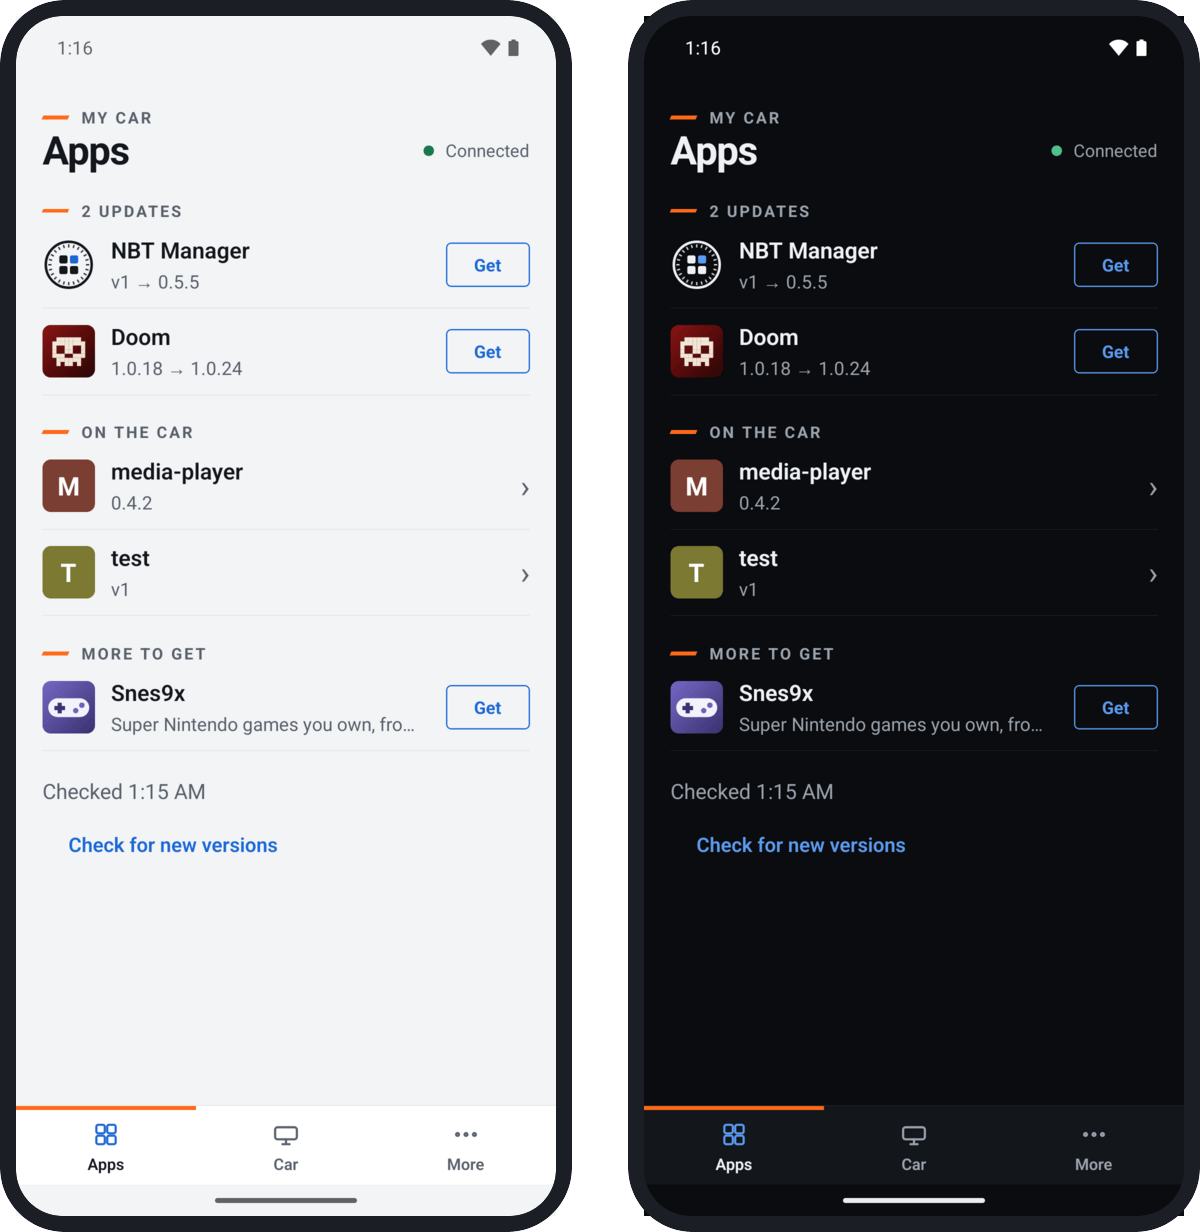
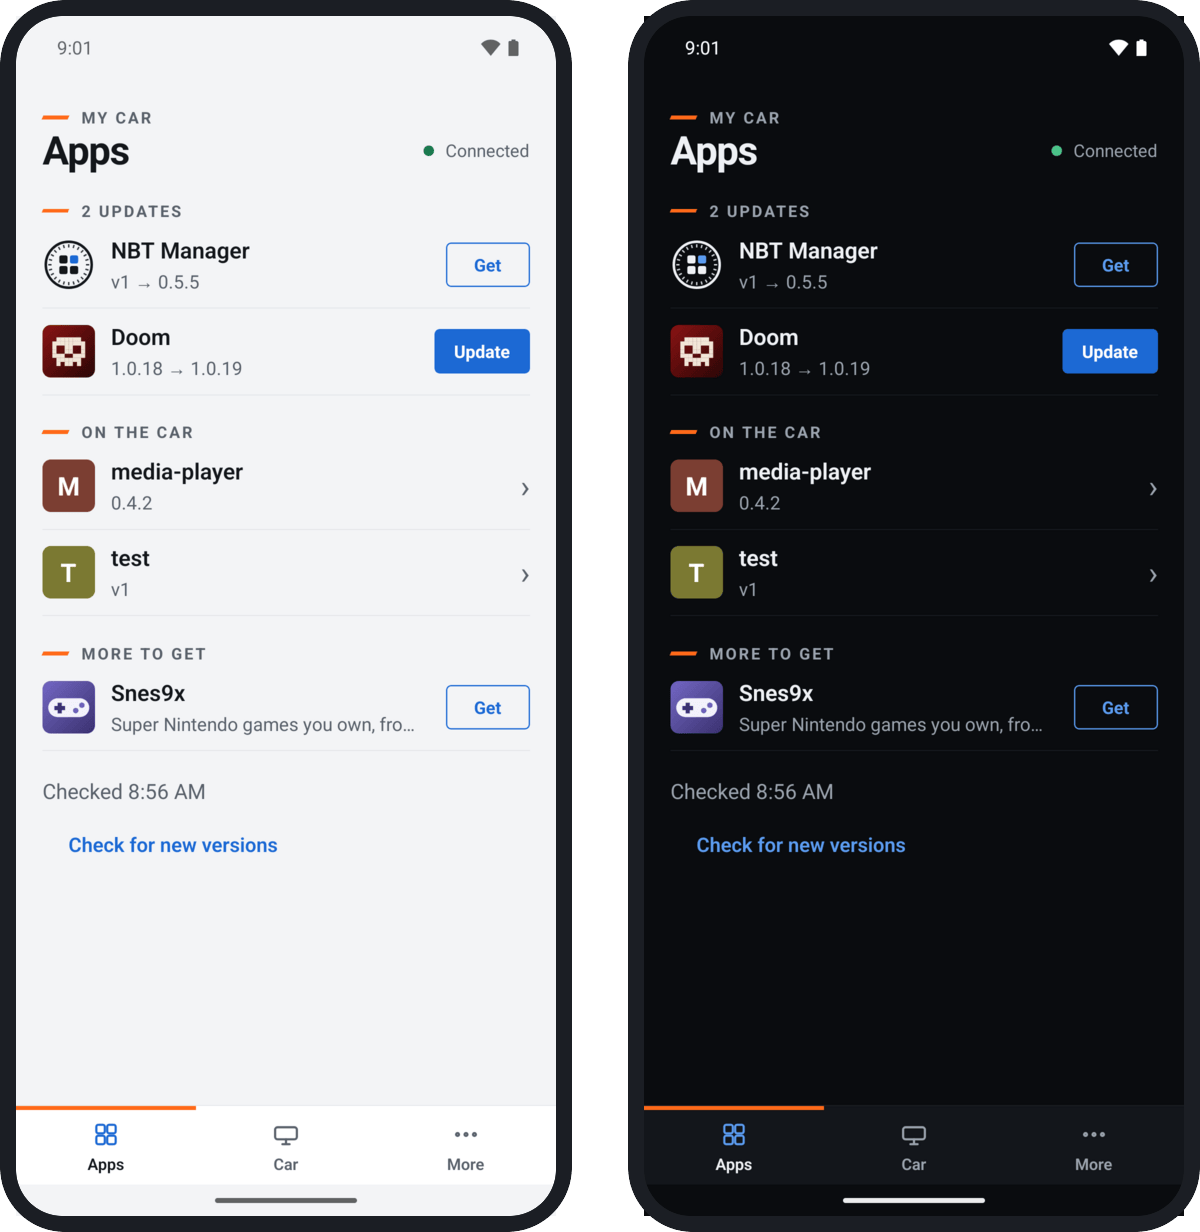
Docs: the README's captures at 0.2.1; the capture script follows the catalog read at start
The app reads the online catalog when it opens, so Doom's page offered the
catalog's release instead of the test package: the test packages' sequences
are now above the catalog's. --themes <folder> also captures the Apps tab in
the BMW, MINI and Supra themes, for the website's slides.

diff --git a/scripts/capture_screens.py b/scripts/capture_screens.py
@@ -14,6 +14,8 @@ Writes, framed as a phone on a transparent background:
   mobile-more.png     More: settings, this phone, About (light)
   mobile-pairing.png  pairing: the code to compare with the car (light)
   mobile-install.webp an install, from the request to the car's approval
+With --themes <folder>, also theme-bmw.png, theme-mini.png and theme-supra.png there: the
+Apps tab (dark) in each make's theme, for the website's slides.
 
 Starts Metro (`yarn start`'s port) when nothing listens on it. Clears the app's
 data on the emulator first. Needs adb, ffmpeg (with libwebp), ImageMagick
@@ -39,15 +41,17 @@ from host_car import MANAGER, HostCar, elf  # noqa: E402
 APP_ROOT = Path(__file__).resolve().parents[1]
 PACKAGE = 'org.nbtfoundry.manager'
 CAR_PORT, DOOR_PORT = 18080, 18081
+THEMES = ('BMW', 'MINI', 'Supra')                  # as More > Theme names them
 ADDRESS_HINT = '10.0.2.2:18080'                    # the desk pairing field's placeholder
 SCREEN_W, SCREEN_H = 540, 1200                     # half of the Pixel 6's 1080x2400
 BEZEL, BODY_RADIUS, SCREEN_RADIUS = 16, 64, 46
 BODY = '#1b1e24'
-# (file, app, version, sequence, size in bytes, settings)
+# (file, app, version, sequence, size in bytes, settings). Doom's sequences are above the online
+# catalog's, which the app reads when it opens: the page then offers these packages, not a download.
 PACKAGES = [
-    ('doom-1.0.18.nbt', 'doom', '1.0.18', 18, 6_100_000,
+    ('doom-1.0.18.nbt', 'doom', '1.0.18', 9_000_018, 6_100_000,
      ['sound|Sound|on|on,off', 'turn|Sensitivity|normal|low,normal,high', 'run|Run|always|always,hold']),
-    ('doom-1.0.19.nbt', 'doom', '1.0.19', 19, 6_120_000,
+    ('doom-1.0.19.nbt', 'doom', '1.0.19', 9_000_019, 6_120_000,
      ['sound|Sound|on|on,off', 'turn|Sensitivity|normal|low,normal,high', 'run|Run|always|always,hold']),
     ('media-player-0.4.2.nbt', 'media-player', '0.4.2', 7, 1_400_000, ['source|Source|usb|usb,bluetooth']),
     ('test-v1.nbt', 'test', 'v1', 1, 52_000, ['background|Background|blue|blue,red,green,black']),
@@ -309,6 +313,19 @@ def install(dev, car, app, version):
     dev.tap('‹ Back')
 
 
+def theme_shots(dev, shots):
+    """The Apps tab (dark) in each make's theme; leaves More open, in the light."""
+    dev.night(True)
+    for theme in (*THEMES, 'Like the car'):
+        dev.tab('More')
+        dev.tap('Theme')
+        dev.tap(theme)
+        if theme in THEMES:
+            dev.tab('Apps')
+            dev.screenshot(shots / f'theme-{theme.lower()}.png')
+    dev.night(False)
+
+
 def frame_parts(tmp):
     """The phone body with a hole for the screen, and the screen's rounded mask."""
     w, h = SCREEN_W + 2 * BEZEL, SCREEN_H + 2 * BEZEL
@@ -383,6 +400,7 @@ def main():
     parser = argparse.ArgumentParser(description=__doc__, formatter_class=argparse.RawDescriptionHelpFormatter)
     parser.add_argument('--serial', help='the emulator (default: the only one attached)')
     parser.add_argument('--out', type=Path, default=APP_ROOT / 'docs' / 'assets')
+    parser.add_argument('--themes', type=Path, help='also the Apps tab in each theme, into this folder')
     parser.add_argument('--metro-port', type=int, default=8082)
     parser.add_argument('--build', type=Path, default=Path(os.environ.get('NBT_MANAGER_BUILD', MANAGER / 'build')))
     args = parser.parse_args()
@@ -435,15 +453,13 @@ def main():
                 import_packages(dev, newer, first=False)
 
                 dev.tab('Apps')
-                dev.wait('1 update')
-                # With the online catalog when the emulator reaches it: icons, names, more to get.
-                dev.reach('Read the list')
+                dev.wait_prefix('1.0.18 ')           # doom's update: from 1.0.18 to 1.0.19
+                # With the online catalog, read when the app opened if the emulator reaches it:
+                # icons, names, more to get.
                 try:
                     dev.wait_prefix('Checked ', timeout=25)
                 except SystemExit:
                     print('no catalog: the Apps tab is captured without it')
-                dev.tab('Car')                       # and back: the list from its top
-                dev.tab('Apps')
                 dev.screenshot(shots / 'apps-light.png')
                 dev.night(True)
                 dev.screenshot(shots / 'apps-dark.png')
@@ -458,6 +474,8 @@ def main():
                 dev.tab('More')
                 dev.wait('Appearance')
                 dev.screenshot(shots / 'more.png')
+                if args.themes:
+                    theme_shots(dev, shots)
             finally:
                 dev.demo_mode(False)
                 dev.shell('cmd', 'uimode', 'night', 'yes' if night.endswith('yes') else 'no')
@@ -477,6 +495,10 @@ def main():
             shutil.copy(tmp / f'framed-{name}.png', args.out / f'mobile-{name}.png')
         for name in ('apps', 'car', 'app', 'more', 'pairing'):
             optimise(args.out / f'mobile-{name}.png')
+        if args.themes:
+            args.themes.mkdir(parents=True, exist_ok=True)
+            for theme in THEMES:
+                frame_still(shots / f'theme-{theme.lower()}.png', body, args.themes / f'theme-{theme.lower()}.png')
     print(f'captures in {args.out}')
 
 

diff --git a/README.md b/README.md
@@ -58,7 +58,7 @@ NBT are trademarks of BMW AG; QNX is a trademark of BlackBerry Limited.
   <tr>
     <td width="20%" align="center"><img src="docs/assets/mobile-install.webp" alt="Installing media-player: the request, the car's approval, then the Apps tab lists it"><br>
       <sub>Install: requested on the phone, approved on the car</sub></td>
-    <td width="20%" align="center"><img src="docs/assets/mobile-app.png" alt="Doom's page: the version on the car, the update to download, and rows for settings, files, about and troubleshooting"><br>
+    <td width="20%" align="center"><img src="docs/assets/mobile-app.png" alt="Doom's page: the version on the car, the update ready to install, and rows for settings, files, about and troubleshooting"><br>
       <sub>An application: its next step, the rest behind rows</sub></td>
     <td width="20%" align="center"><img src="docs/assets/mobile-car.png" alt="The Car tab: the link to the car, NBT Manager, health and tools"><br>
       <sub>Car: link, health, tools</sub></td>

diff --git a/.claude/skills/phone-build/SKILL.md b/.claude/skills/phone-build/SKILL.md
@@ -43,7 +43,8 @@ yarn test:contract                                # protocol against the manager
   terminal: `PHONE OPEN`, `confirm`, `approve`, `pack <app> <version> <sequence>`.
 - README screenshots: `python3 scripts/capture_screens.py` (emulator plus desk car;
   it reads the screen with `uiautomator`, which the Device panel's helper holds:
-  close the device there first).
+  close the device there first). `--themes <folder>` adds the Apps tab in each theme, for
+  the website's slides (`../NBTFoundry.github.io/tools/phone_car.py`).
 
 ## Store builds (EAS)
 
